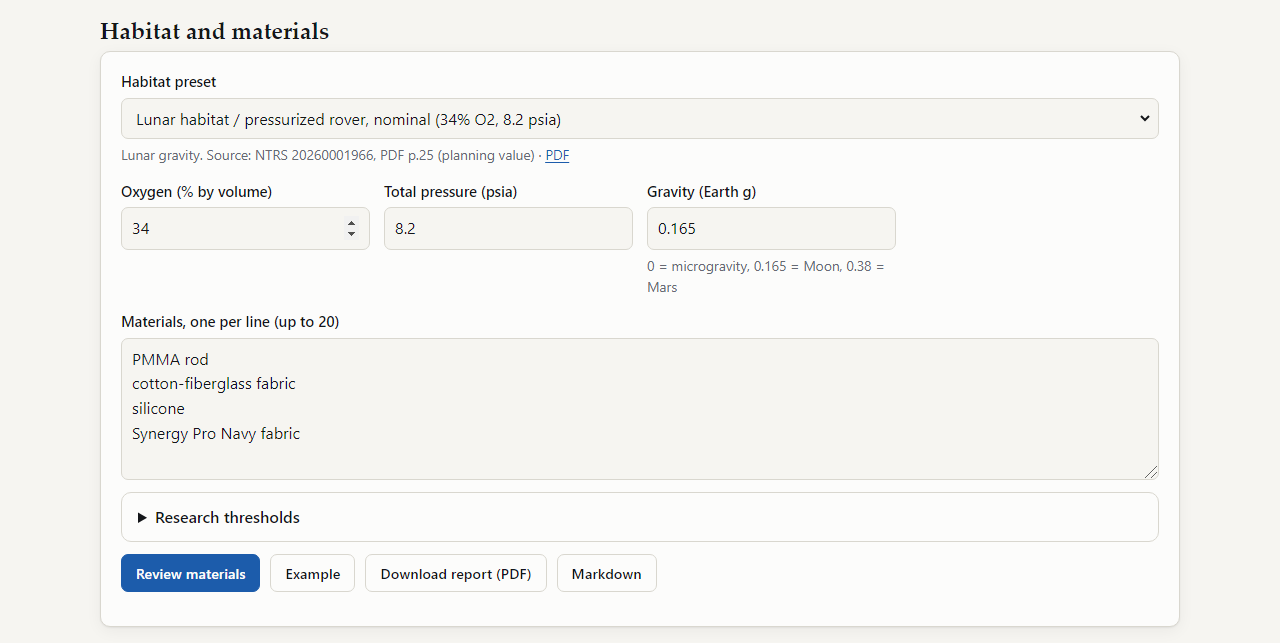
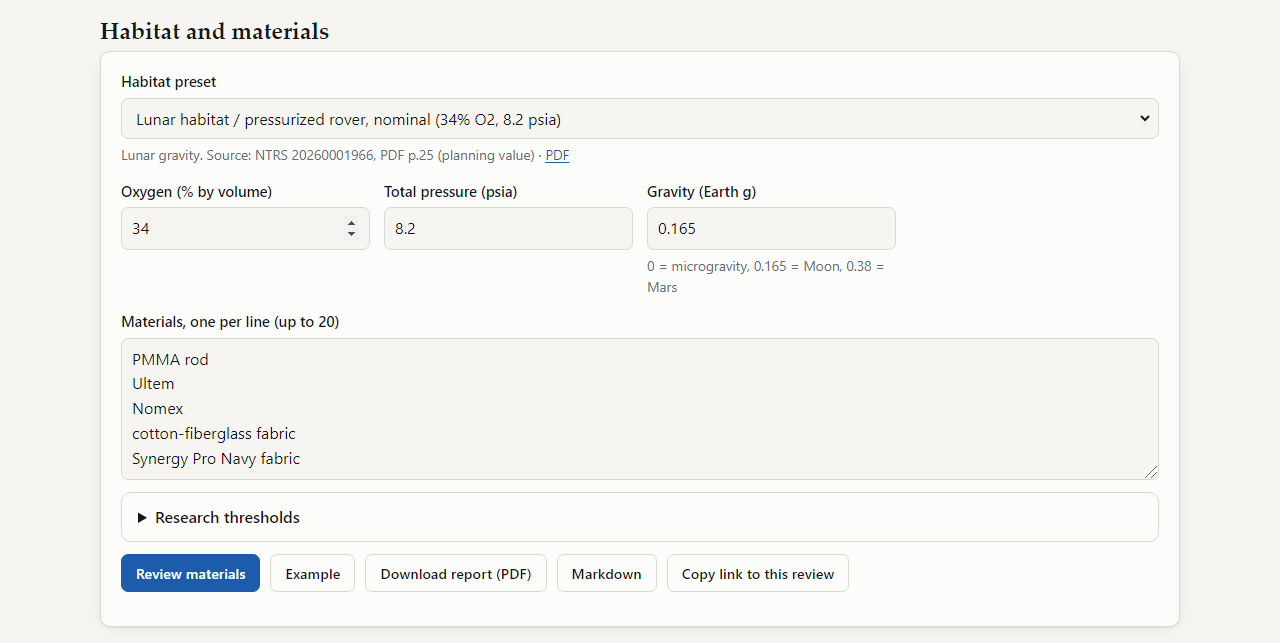
feat: home start-here and key finding, atmosphere matrix, material hints, glossary; fact-check fixes
- Home: key finding computed from the ledger and four start-here cards into each tool
- Habitat Review: same materials across atmospheres (ordered by O2); new Example with
  PMMA, Ultem, Nomex and two fabrics
- Unlisted materials (Kapton, Teflon, paper) get sourced hints and links, never values
- Glossary of ULOI, MOC, margin, Test 1, psia and ISS hardware with NASA sources
- Distinct crew-spacecraft and space-station ranking weights
- Fact-check fixes: test counts, 'bracketing' limited to three drop-tower materials,
  flow sketch now cites the NASA ISS combustion guide, AI disclosure covers Ask
- 162 tests

Changed region(s): [[0.0938, 0.591, 0.25, 0.7465], [0.5312, 0.8709, 0.6562, 0.902]]

diff --git a/web/index.html b/web/index.html
@@ -32,12 +32,37 @@
     <div class="hero">
       <p class="eyebrow">Flame in Freefall · fire safety evidence across gravity levels</p>
       <h1>What do we actually know about how spacecraft materials burn off Earth?</h1>
-      <p class="lede">FlameLedger supports the bridge NASA's FM2 mission is building between Earth-gravity material screening and real reduced-gravity fire behaviour: material by material, it shows what microgravity experiments already tell us, and where the evidence runs out.</p>
+      <p class="lede">Ahead of NASA's FM2 mission, FlameLedger shows, material by material and experiment by experiment, what reduced-gravity fire tests already tell us, and where the evidence runs out.</p>
       <p class="row">
         <span class="badge strong">Research decision support, not certification</span>
         <span class="badge">Every number links to its NASA source page</span>
       </p>
     </div>
+
+    <p class="punchline" id="punchline" aria-live="polite"></p>
+
+    <nav class="start-grid" aria-label="Start here">
+      <a class="start-card" href="/investigations?habitat=lunar_base">
+        <span class="start-k">Investigations</span>
+        <strong>Which NASA fire experiments matter for a Moon base?</strong>
+        <span class="small">21 investigations ranked for your habitat, with the reasons.</span>
+      </a>
+      <a class="start-card" href="/review?example=1">
+        <span class="start-k">Habitat Review</span>
+        <strong>Will my materials burn in a lunar habitat?</strong>
+        <span class="small">Verdicts from NASA data, compared across atmospheres, as a PDF.</span>
+      </a>
+      <a class="start-card" href="/ask?q=Which%20investigations%20tested%20high%20oxygen%20atmospheres%3F">
+        <span class="start-k">Ask</span>
+        <strong>Ask the evidence a question</strong>
+        <span class="small">AI answers, with every number and citation checked.</span>
+      </a>
+      <a class="start-card" href="/fm2">
+        <span class="start-k">Partial gravity &amp; FM2</span>
+        <strong>Is the Moon halfway between orbit and Earth?</strong>
+        <span class="small">For three tested materials, it was not.</span>
+      </a>
+    </nav>
 
     <section aria-labelledby="h-metrics">
       <h2 id="h-metrics">The ledger at a glance</h2>
@@ -84,6 +109,36 @@
       <details>
         <summary>Margins as a table, with sources</summary>
         <div class="scroll" id="margin-table"></div>
+      </details>
+    </section>
+
+    <section aria-labelledby="h-terms">
+      <h2 id="h-terms">Terms used on FlameLedger</h2>
+      <p class="sub">Plain definitions for students and engineers new to spacecraft flammability, with the NASA source where the definition comes from a document.</p>
+      <details>
+        <summary>Show the glossary</summary>
+        <dl class="glossary inner">
+          <dt>NASA-STD-6001 Test 1</dt>
+          <dd>NASA's standard upward-burning flammability test for spacecraft materials, run at the worst-case atmosphere. A sample that burns more than 15 cm fails. <a class="src" href="https://ntrs.nasa.gov/api/citations/20260001966/downloads/Ferkul-Lunar%20and%20Planetary%20Science%20Conf%202026%20v2.pdf" target="_blank" rel="noopener noreferrer">NTRS 20260001966, PDF p.27</a></dd>
+          <dt>ULOI (upward limiting oxygen index)</dt>
+          <dd>In 1g, the oxygen level at which a material passes the Test 1 burn-length criterion about half the time. <a class="src" href="https://ntrs.nasa.gov/api/citations/20080034883/downloads/20080034883.pdf" target="_blank" rel="noopener noreferrer">NTRS 20080034883, p.2</a></dd>
+          <dt>MOC (maximum oxygen concentration)</dt>
+          <dd>In 1g, the highest oxygen level at which at least five samples pass the burn criterion, with at least one failing at 1% more oxygen. <a class="src" href="https://ntrs.nasa.gov/api/citations/20080034883/downloads/20080034883.pdf" target="_blank" rel="noopener noreferrer">NTRS 20080034883, p.2</a></dd>
+          <dt>ULOI* and MOC* (low gravity)</dt>
+          <dd>The low-gravity versions: the lowest oxygen at which the flame survived the whole test, and the highest at which it went out. Drop-tower tests are short, so these criteria differ from 1g. <a class="src" href="https://ntrs.nasa.gov/api/citations/20080034883/downloads/20080034883.pdf" target="_blank" rel="noopener noreferrer">NTRS 20080034883, pp.2-4</a> · <a class="src" href="https://ntrs.nasa.gov/api/citations/20130010991/downloads/20130010991.pdf" target="_blank" rel="noopener noreferrer">NTRS 20130010991, p.6</a></dd>
+          <dt>Oxygen margin of safety (ΔO2)</dt>
+          <dd>The mean low-gravity limit minus the mean 1g limit, as defined by NASA authors. A negative value means the material burned at lower oxygen in low gravity than in the 1g test. FlameLedger shows only margins the authors published. <a class="src" href="https://ntrs.nasa.gov/api/citations/20080034883/downloads/20080034883.pdf" target="_blank" rel="noopener noreferrer">NTRS 20080034883, p.4, Eq. 1</a></dd>
+          <dt>Blowoff limit</dt>
+          <dd>The oxygen level below which a flow blows the flame off the sample. The PMMA rod's 16% O2 value is a 1g blowoff limit, not a Test 1 result.</dd>
+          <dt>Concurrent and opposed flow</dt>
+          <dd>Concurrent: the air flows in the same direction the flame spreads (like upward burning on Earth). Opposed: the air flows against the spreading flame. Test-duct flows are not the same as cabin ventilation.</dd>
+          <dt>psia</dt>
+          <dd>Pounds per square inch, absolute. Earth's sea-level pressure is 14.7 psi; NASA's planned lunar habitat uses 8.2 psia, and spacesuits 4.3 psi. <a class="src" href="https://www.spaceappschallenge.org/2026/challenges/flame-in-freefall/" target="_blank" rel="noopener noreferrer">Challenge brief</a> · <a class="src" href="https://ntrs.nasa.gov/api/citations/20260001966/downloads/Ferkul-Lunar%20and%20Planetary%20Science%20Conf%202026%20v2.pdf" target="_blank" rel="noopener noreferrer">NTRS 20260001966, PDF p.25</a></dd>
+          <dt>Microgravity, lunar and Mars gravity</dt>
+          <dd>Near-zero gravity in orbit (0g), the Moon's gravity (0.165 g) and Mars's gravity (0.38 g), as recorded with each ledger row.</dd>
+          <dt>MSG, CIR and MDCA</dt>
+          <dd>ISS hardware: the Microgravity Science Glovebox (MSG); the Combustion Integrated Rack (CIR), whose main feature is a 100-liter combustion chamber; and the Multi-user Droplet Combustion Apparatus (MDCA), a CIR insert for droplet experiments. <a class="src" href="https://www.nasa.gov/glenn/glenn-expertise-space-exploration/physical-sciences-program/combustion-science/" target="_blank" rel="noopener noreferrer">NASA Glenn, Combustion Science</a></dd>
+        </dl>
       </details>
     </section>
 

diff --git a/web/assets/review.js b/web/assets/review.js
@@ -1,6 +1,9 @@
 import { $, h, getJSON, ENV, fillBuildInfo, setQuery, copyLinkButton } from "/static/common.js";
 
-const EXAMPLE = ["PMMA rod", "cotton-fiberglass fabric", "silicone", "Synergy Pro Navy fabric"];
+const EXAMPLE = ["PMMA rod", "Ultem", "Nomex", "cotton-fiberglass fabric", "Synergy Pro Navy fabric"];
+const SHORT = { red: "Burns at or below this O2", orange: "Thin margin", green: "No burn seen here", grey: "No space data" };
+const MATRIX_DEFAULT = ["iss_cabin", "moon_base_brief", "lunar_habitat_nominal", "eva_suit_lunar"];
+let lastMaterials = [];
 const EXAMPLE_PRESET = "lunar_habitat_nominal";
 const DISCLAIMER = "Research decision support, not certification.";
 const AI_TEXT = {
@@ -129,6 +132,8 @@ function renderCards(result) {
   $("#detail-cards").replaceChildren(...result.verdicts.map((v) => h("article", { class: `card stack vcard v-${v.headline.level}`, id: `card-${v.key}` },
     h("div", { class: "row" }, h("h3", { text: v.input }), v.material ? h("span", { class: "badge", text: v.material }) : h("span", { class: "badge", text: "Not in ledger" })),
     h("ul", { class: "vlist" }, v.verdicts.map((x) => h("li", {}, verdictChip(x), h("p", { text: x.reason })))),
+    v.hint ? h("p", { class: "small" }, "Related NASA investigation: ", ...v.hint.investigation_ids.flatMap((id, i) => [i ? ", " : "",
+      h("a", { href: `/investigations#inv-${id}`, text: id.toUpperCase() })])) : null,
     explanations.has(v.key) ? h("p", { class: "ai-line" }, h("strong", { text: "AI explanation (verified): " }), explanations.get(v.key)) : null,
     v.missing.length ? h("div", {}, h("p", { class: "small strong", text: "What is missing" }), h("ul", { class: "small" }, v.missing.map((m) => h("li", { text: m })))) : null,
     v.evidence.length ? h("details", {}, h("summary", { text: `Evidence used (${v.evidence.length})` }), h("div", { class: "scroll" }, evidenceTable(v.evidence))) : null,
@@ -147,6 +152,29 @@ function render(result) {
   $("#results-section").hidden = false;
 }
 
+async function runMatrix() {
+  const o2 = (id) => (presets.find((p) => p.preset_id === id) || {}).o2_pct ?? 0;
+  const ids = [...document.querySelectorAll("#matrix-presets input:checked")].map((el) => el.value).sort((x, y) => o2(x) - o2(y));
+  const out = $("#matrix");
+  $("#matrix-section").hidden = false;
+  if (!lastMaterials.length) return;
+  if (ids.length < 2) { out.replaceChildren(h("p", { class: "small", text: "Pick at least two atmospheres." })); return; }
+  try {
+    const res = await (await post("/api/review/matrix", { materials: lastMaterials, preset_ids: ids.slice(0, 6) })).json();
+    out.replaceChildren(h("table", { class: "matrix-table" },
+      h("caption", { class: "skip", text: "Headline verdict per material and atmosphere" }),
+      h("thead", {}, h("tr", {}, h("th", { scope: "col", text: "Material" }),
+        res.columns.map((c) => h("th", { scope: "col", title: c.label }, c.label.split(/[/(,]/)[0].trim(), h("span", { class: "small block", text: `${c.o2_pct}% O2, ${c.pressure_psia} psia, ${c.gravity_g} g` }))))),
+      h("tbody", {}, res.rows.map((r) => h("tr", {},
+        h("th", { scope: "row" }, r.input, r.material ? null : h("span", { class: "small block", text: "Not in ledger" })),
+        r.cells.map((c) => h("td", { class: `mcell v-${c.level}`, title: c.reason },
+          h("span", { "aria-hidden": "true", text: c.emoji }), " ", SHORT[c.level] || c.label,
+          h("span", { class: "skip", text: `: ${c.label}` }))))))));
+  } catch (err) {
+    out.replaceChildren(h("p", { class: "error", text: err.message || "The comparison could not run." }));
+  }
+}
+
 async function run(event) {
   event.preventDefault();
   showFormError("");
@@ -160,6 +188,8 @@ async function run(event) {
     $("#download").disabled = false;
     $("#download-md").disabled = false;
     render(result);
+    lastMaterials = body.materials;
+    runMatrix();
     setQuery({ preset: body.preset_id || "", o2: body.preset_id ? "" : body.o2_pct, pressure: body.preset_id ? "" : body.pressure_psia,
       gravity: body.preset_id ? "" : body.gravity_g, materials: body.materials.join("|") });
     $("#share-review").replaceChildren(copyLinkButton("Copy link to this review"));
@@ -203,6 +233,9 @@ async function main() {
   for (const el of [fields.o2, fields.pressure, fields.gravity]) el.addEventListener("input", syncPresetToInputs);
   try {
     presets = await getJSON("/api/presets");
+    $("#matrix-presets").replaceChildren(...presets.map((p) => h("label", { class: "chip-check" },
+      Object.assign(h("input", { type: "checkbox", value: p.preset_id }), { checked: MATRIX_DEFAULT.includes(p.preset_id) }), ` ${p.label}`)));
+    $("#matrix-go").addEventListener("click", runMatrix);
     fields.preset.append(...presets.map((p) => h("option", { value: p.preset_id, text: `${p.label} (${p.o2_pct}% O2, ${p.pressure_psia} psia)` })));
     const start = presets.find((p) => p.preset_id === EXAMPLE_PRESET) || presets[0];
     if (start) { fields.preset.value = start.preset_id; applyPreset(start.preset_id); }

diff --git a/web/fm2.html b/web/fm2.html
@@ -4,7 +4,7 @@
   <meta charset="utf-8">
   <meta name="viewport" content="width=device-width, initial-scale=1">
   <title>FlameLedger: Partial gravity and FM2</title>
-  <meta name="description" content="Why microgravity and Earth gravity do not bracket fire behaviour on the Moon, what NASA's FM2 mission will test, and three hypotheses registered before it flies.">
+  <meta name="description" content="Why, in NASA drop-tower tests on three materials, microgravity and Earth gravity did not bracket lunar-gravity flammability limits; what NASA's FM2 mission will test, and three hypotheses registered before it flies.">
   <link rel="icon" href="/static/favicon.svg" type="image/svg+xml">
   <link rel="stylesheet" href="/static/styles.css">
   <script type="module" src="/static/fm2.js"></script>
@@ -31,8 +31,8 @@
   <main id="main" class="wrap">
     <div class="hero">
       <p class="eyebrow">Partial gravity · Flammability of Materials on the Moon (FM2)</p>
-      <h1>The Moon is not halfway between orbit and Earth</h1>
-      <p class="lede">It is natural to assume that a material's fire behaviour in lunar gravity falls somewhere between its behaviour in microgravity and on Earth. The published data say otherwise, and NASA's FM2 mission is designed to test it on the Moon itself.</p>
+      <h1>For three tested materials, the Moon was not halfway between orbit and Earth</h1>
+      <p class="lede">It is natural to assume that a material's fire behaviour in lunar gravity falls somewhere between its behaviour in microgravity and on Earth. In NASA's drop-tower data for Mylar G, Ultem 1000 and Nomex HT90-40, it did not: the lunar limit was below both. NASA's FM2 mission will give the first long-duration test on the Moon itself.</p>
       <p class="row"><span class="badge strong">Research decision support, not certification</span></p>
     </div>
 
@@ -60,7 +60,7 @@
     </section>
 
     <section aria-labelledby="h-why">
-      <h2 id="h-why">Why two endpoints do not bracket the middle</h2>
+      <h2 id="h-why">Why two endpoints need not bracket the middle</h2>
       <div class="cols">
         <div class="card stack">
           <p>A flame on a solid needs a steady supply of oxygen, and it must keep enough of its own heat to keep vaporising fuel. The air flow past the flame controls both.</p>
@@ -88,7 +88,7 @@
               <text x="228" y="188" text-anchor="middle">lowest oxygen requirement</text>
             </svg>
           </div></div>
-          <p class="small">Conceptual sketch drawn by FlameLedger, after NASA literature. It has no scale and shows no measured values.</p>
+          <p class="small">Conceptual sketch drawn by FlameLedger. It has no scale and shows no measured values. Basis: NASA's ISS combustion Researcher's Guide shows a flammability map with a <span class="quote">region of enhanced flammability in the low-convective flow range</span> (<a class="src" href="https://www.nasa.gov/wp-content/uploads/2016/05/np-2015-10-034-jsc_combustion_in_reduced_gravity-iss-mini-book-011116-508.pdf" target="_blank" rel="noopener noreferrer">NASA Researcher's Guide to Combustion Science, p.18, Fig. 8</a>). The branch names are textbook terms, not ledger data.</p>
         </div>
       </div>
     </section>

diff --git a/web/assets/styles.css b/web/assets/styles.css
@@ -223,6 +223,23 @@ button.btn:disabled { opacity: 0.55; cursor: not-allowed; }
 #ai-panel, #detail-cards { margin-top: 14px; }
 
 /* Investigations and Ask */
+.glossary { display: grid; grid-template-columns: minmax(160px, max-content) 1fr; gap: 8px 16px; margin: 0; font-size: 0.92rem; }
+.glossary dt { font-weight: 700; }
+.glossary dd { margin: 0; color: var(--text-2); }
+@media (max-width: 640px) { .glossary { grid-template-columns: 1fr; } .glossary dd { margin-bottom: 8px; } }
+.punchline { display: flex; flex-wrap: wrap; gap: 6px 14px; align-items: baseline; background: var(--surface); border: 1px solid var(--border); border-left: 5px solid var(--env-lunar); border-radius: 10px; padding: 14px 18px; margin: 0 0 16px; font-size: 1.02rem; }
+.punchline:empty { display: none; }
+.punch-big { font: 700 2rem/1 var(--serif); color: var(--env-lunar); }
+.start-grid { display: grid; grid-template-columns: repeat(auto-fit, minmax(230px, 1fr)); gap: 12px; margin: 0 0 8px; }
+.start-card { display: flex; flex-direction: column; gap: 6px; background: var(--surface); border: 1px solid var(--border); border-radius: 10px; padding: 14px 16px; text-decoration: none; color: var(--text); box-shadow: var(--shadow); }
+.start-card:hover { border-color: var(--accent); }
+.start-card strong { font-size: 1.02rem; line-height: 1.3; }
+.start-k { font-size: 0.74rem; letter-spacing: 0.08em; text-transform: uppercase; color: var(--accent); font-weight: 700; }
+.chip-check { font-size: 0.86rem; padding: 4px 10px; border: 1px solid var(--border); border-radius: 999px; background: var(--surface); display: inline-flex; gap: 4px; align-items: center; cursor: pointer; }
+.matrix-table td.mcell { font-size: 0.86rem; font-weight: 600; }
+.matrix-table td.mcell.v-red { background: color-mix(in srgb, var(--v-red) 12%, transparent); }
+.matrix-table td.mcell.v-orange { background: color-mix(in srgb, var(--v-orange) 14%, transparent); }
+.matrix-table td.mcell.v-green { background: color-mix(in srgb, var(--v-green) 14%, transparent); }
 .chart .o2-bar.inv { fill: var(--env-micro); }
 .chart .o2-bar.ledger { fill: var(--env-1g); }
 .chart .o2-bar.planned { fill: var(--planned); }

diff --git a/web/assets/ledger.js b/web/assets/ledger.js
@@ -115,6 +115,15 @@ function renderPmma(rowsById, margins) {
     `Published by NASA authors. ${margin.caveat}`);
 }
 
+function renderPunchline(rowsById, margins) {
+  const one = rowsById.get("E1"), zero = rowsById.get("E2"), m = margins.find((x) => x.margin_id === "E3");
+  if (!one || !zero || !m) return;
+  $("#punchline").replaceChildren(
+    h("span", { class: "punch-big", text: `${num(zero.o2_pct)}% O2` }),
+    h("span", {}, ` A PMMA rod kept burning on the Space Station at ${num(zero.o2_pct)}% oxygen, below its ${num(one.o2_pct)}% Earth-gravity blowoff limit: a published margin of ${signed(m.margin_pct_o2)}% O2. `,
+      sourceLink(m.source_id, m.source_url, m.location)));
+}
+
 function renderMargins(margins) {
   const data = [...margins].sort((p, q) => p.margin_pct_o2 - q.margin_pct_o2);
   const W = 560, L = 176, R = 500, rowH = 28, top = 8;
@@ -170,6 +179,7 @@ async function main() {
     renderMetrics(cov.metrics);
     renderGrid(cov, rowsById);
     renderPmma(rowsById, margins);
+    renderPunchline(rowsById, margins);
     renderMargins(margins);
     renderSources(sources, rows);
   } catch (err) {

diff --git a/web/review.html b/web/review.html
@@ -103,6 +103,14 @@
       <div class="stack" id="ai-panel" aria-live="polite"></div>
       <div class="stack" id="detail-cards"></div>
     </section>
+
+    <section aria-labelledby="h-matrix" id="matrix-section" hidden>
+      <h2 id="h-matrix">Same materials, different atmospheres</h2>
+      <p class="sub">The headline verdict for each material in several habitat atmospheres, side by side. A material can look acceptable in the Space Station's air and still burn in a lunar habitat's richer oxygen. Rule-based verdicts only; no AI. Columns run from lowest to highest oxygen; hover over a cell for the full reason, and see the cards above for the evidence.</p>
+      <div class="row" id="matrix-presets" role="group" aria-label="Atmospheres to compare"></div>
+      <p class="row"><button class="btn" type="button" id="matrix-go">Update comparison</button></p>
+      <div class="card"><div class="scroll" id="matrix"></div></div>
+    </section>
   </main>
 
   <footer>

diff --git a/web/investigations.html b/web/investigations.html
@@ -55,7 +55,7 @@
 
     <section aria-labelledby="h-o2">
       <h2 id="h-o2">Oxygen tested versus the atmospheres we plan to live in</h2>
-      <p class="sub">Each bar is the oxygen range an investigation reported, with its NASA source. The dashed lines are habitat atmospheres from the challenge brief and NASA's FM2 presentation. Flammability rises with oxygen, so the space to the right of the bars is where evidence is thin.</p>
+      <p class="sub">Each bar is the oxygen range an investigation reported, with its NASA source. The dashed lines are habitat atmospheres from the challenge brief and NASA's FM2 presentation. The space to the right of the bars is oxygen levels that no listed investigation reported testing.</p>
       <ul class="legend" aria-label="Bar colours">
         <li><span class="sw env-micro"></span>Conducted tests</li>
         <li><span class="sw sw-planned-fill"></span>Planned tests</li>

diff --git a/web/assets/fm2.js b/web/assets/fm2.js
@@ -1,9 +1,9 @@
 import { $, h, s, getJSON, ENV, num, pct, sourceLink, tip, showError, fillBuildInfo, linear } from "/static/common.js";
 
 const FINDING_TITLES = {
-  E9: "Earth tests can overstate the oxygen a flame needs",
+  E9: "Limits measured in 1g were higher than in 0g, by up to 4% O2",
   E10: "Below Earth's gravity, some materials burn more readily",
-  E11: "Partial gravity is expected to raise flammability for some materials",
+  E11: "Partial gravity is expected to increase flammability limits for some materials",
 };
 
 function renderFindings(rows) {

diff --git a/flameledger/rules.py b/flameledger/rules.py
@@ -42,6 +42,31 @@ ALIASES: dict[str, tuple[str, ...]] = {
 _ALIAS_RE = [(mid, re.compile(r"(?<![a-z0-9])" + re.escape(a) + r"(?![a-z0-9])"))
              for mid, aliases in ALIASES.items() for a in sorted(aliases, key=len, reverse=True)]
 
+# Guidance for common spacecraft materials that are NOT in the ledger. Every statement comes from a
+# NASA source in data/investigations.json (SAME and BRE fact sheets / ISS combustion guide). They never
+# map a product onto a ledger entry and never give a value.
+HINTS: list[tuple[re.Pattern, str, list[str]]] = [
+    (re.compile(r"(?<![a-z])kapton(?![a-z])", re.I),
+     "NASA's SAME experiment heated Kapton to study the smoke it makes, for smoke-detector design; that is not a "
+     "flammability limit. The ledger's polyimide (PI) entry is a different product, so its values do not apply.", ["same"]),
+    (re.compile(r"(?<![a-z])(teflon|ptfe)(?![a-z])", re.I),
+     "NASA's SAME experiment heated Teflon to study its smoke (mostly particles under 1 micron), for smoke-detector "
+     "design; that is not a flammability limit.", ["same"]),
+    (re.compile(r"(?<![a-z])(paper|cellulose)(?![a-z])", re.I),
+     "NASA's SAME experiment studied smoke from cellulose, and the BRE experiment emulated burning materials such as "
+     "paper with a gas burner; neither gives a flammability limit for this habitat.", ["same", "bre"]),
+    (re.compile(r"(?<![a-z])silicone rubber(?![a-z])", re.I),
+     "NASA's SAME experiment also heated silicone rubber to study its smoke.", ["same"]),
+]
+
+
+def material_hint(text: str) -> dict | None:
+    for pattern, hint_text, ids in HINTS:
+        if pattern.search(text or ""):
+            return {"text": hint_text, "investigation_ids": ids}
+    return None
+
+
 REDUCED = ("microgravity", "lunar", "mars")
 MEASURE_LABEL = {"uloi": "ULOI", "moc": "MOC", "uloi_star": "ULOI*", "moc_star": "MOC*",
                  "blowoff_limit": "Blowoff limit", "steady_spread": "Steady spread"}
@@ -160,11 +185,12 @@ class RulesEngine:
         mid = match_material(text)
         base = {"key": key, "input": text, "material_id": mid, "material": self.names.get(mid) if mid else None}
         if mid is None or mid not in self.names:
+            hint = material_hint(text)
+            reason = ("This material is not in the FlameLedger ledger. Its reduced-gravity behaviour is "
+                      "unknown here; check the NASA materials database and the original test reports.")
             grey = {"level": "grey", **self._level("grey"),
-                    "reason": "This material is not in the FlameLedger ledger. Its reduced-gravity behaviour is "
-                              "unknown here; check the NASA materials database and the original test reports.",
-                    "evidence_ids": []}
-            return {**base, "headline": grey, "verdicts": [grey], "evidence": [],
+                    "reason": reason + (" " + hint["text"] if hint else ""), "evidence_ids": []}
+            return {**base, "headline": grey, "verdicts": [grey], "evidence": [], "hint": hint,
                     "missing": ["No verified evidence for this material in the ledger."],
                     "caveats": self._general_caveats()}
 

diff --git a/flameledger/api.py b/flameledger/api.py
@@ -47,6 +47,13 @@ class ReviewRequest(BaseModel):
         "materials": ["PMMA rod", "cotton-fiberglass fabric", "silicone", "Synergy Pro Navy fabric"]}})
 
 
+class MatrixRequest(BaseModel):
+    model_config = ConfigDict(extra="forbid", allow_inf_nan=False)
+    materials: list[MaterialText] = Field(min_length=1, max_length=20)
+    preset_ids: list[Annotated[str, StringConstraints(pattern=r"^[a-z0-9_]+$", max_length=40)]] = Field(min_length=2, max_length=6)
+    thresholds: ThresholdsIn | None = None
+
+
 class RateLimiter:
     """Sliding-window limit per client IP, in memory (one process on Render)."""
 
@@ -109,6 +116,30 @@ def build_router(dataset: Dataset, settings: Settings, disclaimer: str, commit) 
         result = run_rules(req)
         ai = explainer.explain(result)
         return {**result, "ai": ai.ai, "ai_status": ai.status, "ai_note": ai.note}
+
+    @router.post("/review/matrix", summary="Check the same materials across several habitat atmospheres")
+    def review_matrix(req: MatrixRequest, request: Request):
+        """Deterministic verdicts only (no AI): one row per material, one column per preset atmosphere."""
+        guard(report_limit, request)
+        chosen = [presets[p] for p in req.preset_ids if p in presets]
+        if len(chosen) != len(req.preset_ids):
+            raise HTTPException(status_code=422, detail="Unknown preset id.")
+        th = Thresholds(**req.thresholds.model_dump()) if req.thresholds else Thresholds()
+        columns, per_preset = [], []
+        for p in chosen:
+            columns.append({"preset_id": p.preset_id, "label": p.label, "o2_pct": p.o2_pct,
+                            "pressure_psia": p.pressure_psia, "gravity_g": p.gravity_g})
+            per_preset.append(engine.review(Habitat(p.o2_pct, p.pressure_psia, p.gravity_g, p.label), list(req.materials), th))
+        rows = []
+        for idx, item in enumerate(per_preset[0]["verdicts"]):
+            cells = []
+            for res in per_preset:
+                v = res["verdicts"][idx]
+                cells.append({"level": v["headline"]["level"], "emoji": v["headline"]["emoji"], "label": v["headline"]["label"],
+                              "reason": v["headline"]["reason"], "n_verdicts": len(v["verdicts"])})
+            rows.append({"input": item["input"], "material": item["material"], "material_id": item["material_id"], "cells": cells})
+        return {"columns": columns, "rows": rows, "thresholds": th.as_dict(),
+                "disclaimer": "Research decision support, not certification."}
 
     @router.post("/report", summary="Download the Habitat Review as Markdown",
                  response_class=Response, responses={200: {"content": {"text/markdown": {}}}})

diff --git a/tests/test_investigations.py b/tests/test_investigations.py
@@ -177,3 +177,20 @@ def test_o2_range_order_is_validated(tmp_path):
     ds = load_dataset(target)
     with pytest.raises(DataError):
         load_catalogue(target, {r.row_id for r in ds.rows})
+
+
+def test_spacecraft_and_station_rank_differently(cat):
+    sc = [r["id"] for r in rank(cat, "spacecraft")["results"]]
+    st = [r["id"] for r in rank(cat, "space_station")["results"]]
+    assert sc != st
+
+
+def test_atmosphere_matrix(client):
+    body = {"materials": ["Ultem", "silicone"], "preset_ids": ["iss_cabin", "lunar_habitat_nominal"]}
+    res = client.post("/api/review/matrix", json=body).json()
+    assert [c["preset_id"] for c in res["columns"]] == ["iss_cabin", "lunar_habitat_nominal"]
+    ultem = next(r for r in res["rows"] if r["material_id"] == "ultem_1000")
+    assert [c["level"] for c in ultem["cells"]] == ["orange", "red"]
+    assert res["disclaimer"] == "Research decision support, not certification."
+    assert client.post("/api/review/matrix", json={**body, "preset_ids": ["iss_cabin"]}).status_code == 422
+    assert client.post("/api/review/matrix", json={**body, "preset_ids": ["iss_cabin", "nope"]}).status_code == 422

diff --git a/tests/test_rules.py b/tests/test_rules.py
@@ -120,3 +120,10 @@ def test_only_published_margins_appear(engine):
             if e["kind"] == "margin":
                 assert e["id"] in published
         assert "0.4%" not in " ".join(v["reason"] for v in item["verdicts"])
+
+
+def test_unlisted_materials_get_sourced_hints_but_no_values(engine):
+    kapton = one(engine, "Kapton tape", LUNAR)
+    assert kapton["material_id"] is None and kapton["hint"]["investigation_ids"] == ["same"]
+    assert "not a flammability limit" in kapton["headline"]["reason"] and "%" not in kapton["headline"]["reason"]
+    assert one(engine, "Velcro", LUNAR).get("hint") is None
